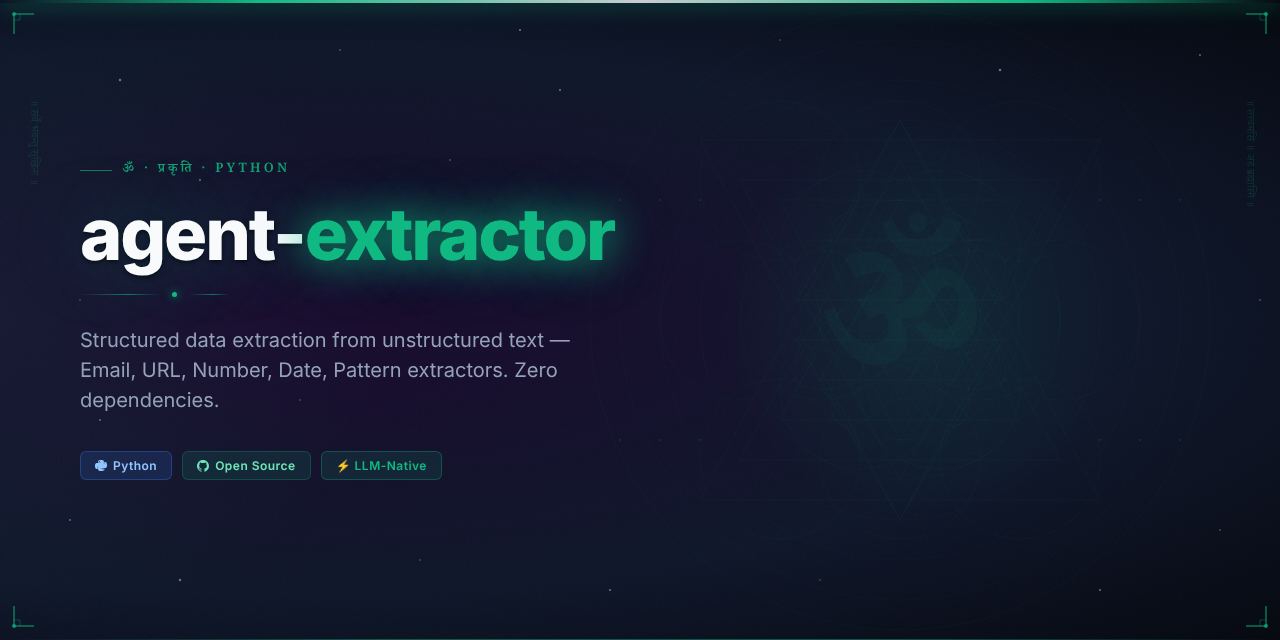
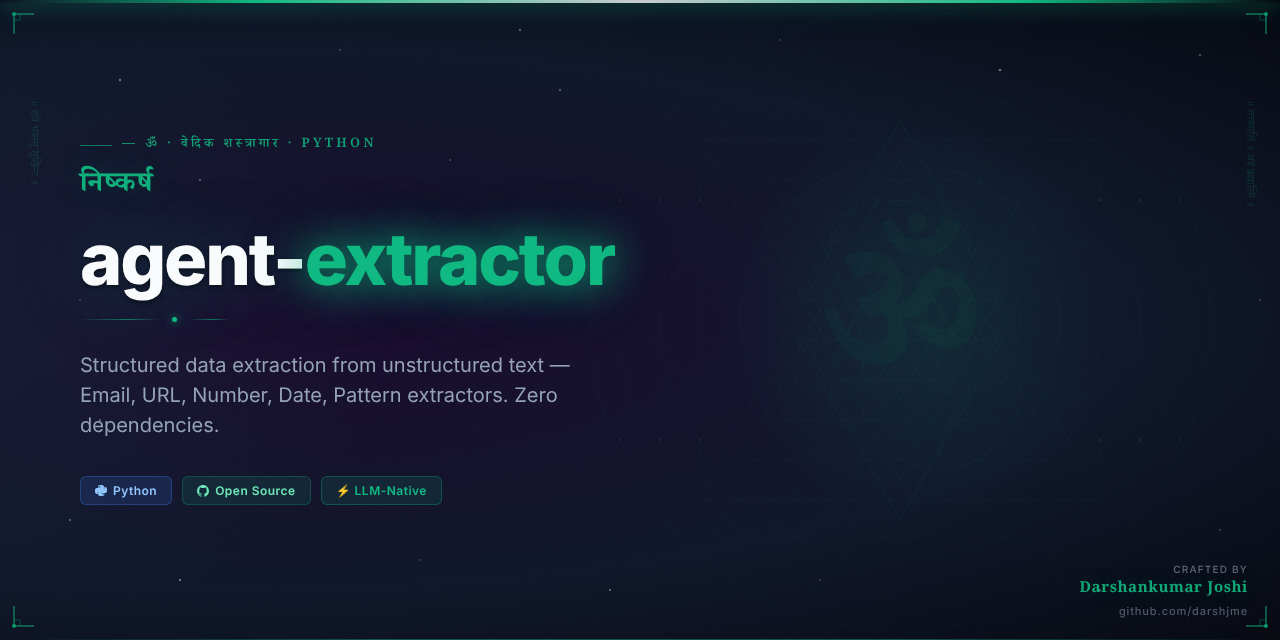
feat: add Vedic Arsenal hero image and updated README
Part of darshjme/arsenal — 100 production-grade Python libraries for LLM agents.
Vedic branding: ancient philosophy meets modern AI engineering.

diff --git a/README.md b/README.md
@@ -1,10 +1,12 @@
 <div align="center">
 
-<img src="assets/agent-extractor-hero.png" alt="agent-extractor — Vedic Arsenal" width="100%" />
+<img src="assets/agent-extractor-hero.png" alt="agent-extractor — Vedic Arsenal by Darshankumar Joshi" width="100%" />
 
 # 🌿 agent-extractor
 
-### *निष्कर्ष* — Nishkarsha — extracting the essence, the final truth
+<h3><em>निष्कर्ष</em></h3>
+
+> *Nishkarsha — extracting the essence, the final truth*
 
 **Structured data extraction from unstructured text — Email, URL, Number, Date, Pattern extractors. Zero dependencies.**
 
@@ -39,6 +41,19 @@ Or clone directly:
 git clone https://github.com/darshjme/agent-extractor.git
 cd agent-extractor
 pip install -e .
+```
+
+## How It Works
+
+```mermaid
+flowchart LR
+    A[Input] --> B[agent-extractor]
+    B --> C{Process}
+    C -- Success --> D[Output]
+    C -- Error --> E[Handle / Retry]
+    E --> B
+    style B fill:#6b21a8,color:#fff
+    note["Extractor — Zero Dependencies"]
 ```
 
 ## Quick Start
@@ -90,7 +105,7 @@ MIT — use freely, build freely.
 
 <div align="center">
 
-**Built with 🌿 by [Darshankumar Joshi](https://github.com/darshjme)**
+**Built with 🌿 by [Darshankumar Joshi](https://github.com/darshjme)** · [@thedarshanjoshi](https://twitter.com/thedarshanjoshi)
 
 *"कर्मण्येवाधिकारस्ते मा फलेषु कदाचन"*
 *Your right is to action alone, never to the fruits thereof.*
